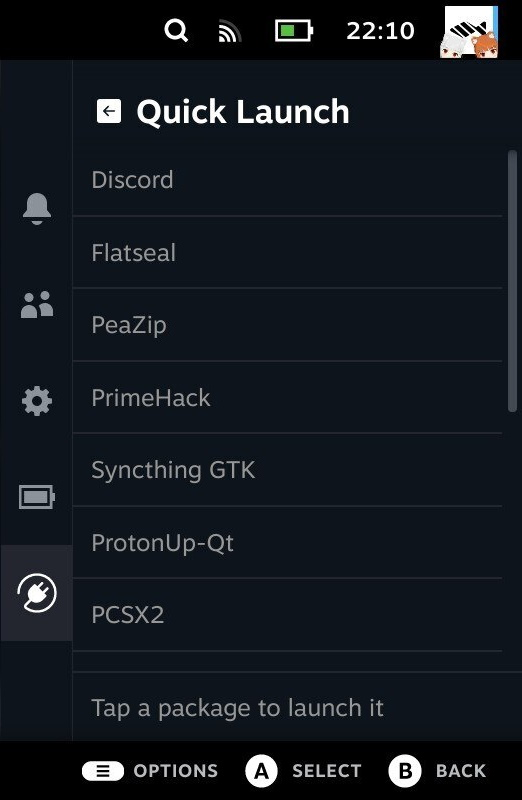
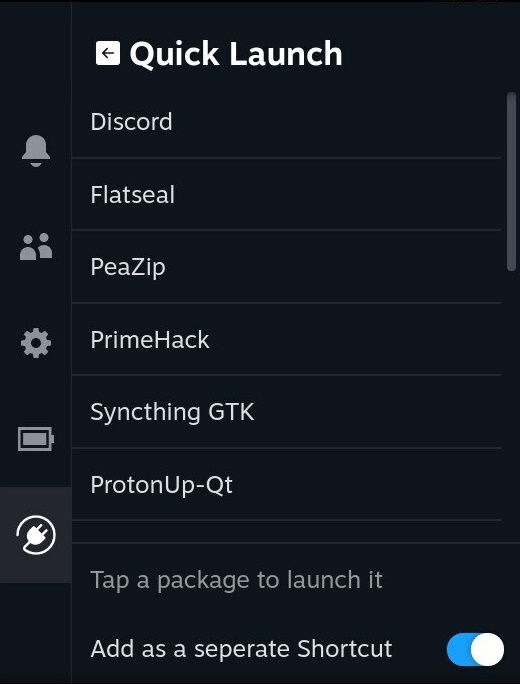
Add the ability to create new Shortcuts

diff --git a/main_view.html b/main_view.html
@@ -8,12 +8,13 @@
             body {
                 margin-left: 0;
                 margin-right: 0;
+                color: #dcdedf;
             }
             #flatpaklist {
               list-style-type: none;
               padding: 0;
               overflow-y: scroll;
-              height: 90%;
+              height: 78%;
               margin-bottom: 0;
             }
 
@@ -32,6 +33,10 @@
                 padding: 12px;
                 border-bottom: 1px solid #23262e;
             }
+
+            #status {
+                color: #969696;
+            }
         </style>
     </head>
     <body style="overflow-y: hidden;">
@@ -39,6 +44,15 @@
         <ul id="flatpaklist"></ul>
         <div id="settings">
             <div id="status"></div>
+            <div class="gamepaddialog_FieldLabelRow_H9WOq">
+                <div class="gamepaddialog_FieldLabel_3b0U-">
+                    Add as a seperate Shortcut
+                </div>
+                <div id="shortcutToggle" tabindex="0" class="gamepaddialog_Toggle_24G4g Focusable" onclick="handleShortcutToggle()">
+                    <div class="gamepaddialog_ToggleRail_2JtC3"></div>
+                    <div class="gamepaddialog_ToggleSwitch_3__OD"></div>
+                </div>
+            </div>
         </div>                                          
 
         <script>
@@ -47,6 +61,7 @@
             // - Check if Shortcut still exists
 
             const status = document.getElementById("status")
+            let createShortcut = false
 
             async function show_list() {
                 status.innerHTML = "Fetching Packages..."
@@ -59,11 +74,40 @@
                     e.innerHTML = flatpak.name;
                     
                     e.onclick = async function() {
-                        launch_flatpak(flatpak.package);
+                        if(createShortcut) {
+                            let id = await create_shortcut(flatpak.name);
+                            sc(`Apps.SetShortcutLaunchOptions(${id}, "run ${flatpak.package}")`);
+                            status.innerHTML = "Shortcut created."
+                            setTimeout(()=>status.innerHTML="Tap a package to launch it", 1000)
+                        } else {
+                            launch_flatpak(flatpak.package);
+                        }
+
                     }
                 });
 
                 status.innerHTML = "Tap a package to launch it"
+            }
+
+            function setToggleState(id, state) {
+                //Shamelessly stolen from https://github.com/SteamDeckHomebrew/ExtraSettingsPlugin/blob/main/main_view.html
+                const ENABLED_CLASS = "gamepaddialog_On_3ld7T";
+                let toggle = document.getElementById(id);
+
+                if (state && !toggle.classList.contains(ENABLED_CLASS)) {
+                    toggle.classList.add(ENABLED_CLASS);
+                }
+
+                if (!state && toggle.classList.contains(ENABLED_CLASS)) {
+                    toggle.classList.remove(ENABLED_CLASS);
+                }
+            }
+
+            function handleShortcutToggle() {
+                let toggle = document.getElementById("shortcutToggle");
+                let isActive = toggle.classList.contains("gamepaddialog_On_3ld7T");
+                createShortcut = !isActive;
+                setToggleState("shortcutToggle", !isActive);
             }
 
             async function launch_flatpak(package) {
@@ -86,17 +130,18 @@
             async function get_shortcut() {
                 let id = await call_plugin_method("get_id", {})
                 if(id == -1) {
-                    id = await create_shortcut()
+                    id = await create_shortcut("QuickLaunch");
+                    call_plugin_method("set_id", {id: id});
                 } else if(await gameid_from_appid(id) == -1) {
-                    id = await create_shortcut()
+                    id = await create_shortcut("QuickLaunch");
+                    call_plugin_method("set_id", {id: id});
                 }
 
                 return id
             }
 
-            async function create_shortcut() {
-                let id = (await sc('Apps.AddShortcut("QuickLaunch","/usr/bin/flatpak")')).result;
-                call_plugin_method("set_id", {id: id})
+            async function create_shortcut(name) {
+                let id = (await sc(`Apps.AddShortcut("${name}","/usr/bin/flatpak")`)).result;
                 return id
             }
 
@@ -107,7 +152,7 @@
             }
 
             async function gameid_from_appid(appid) {
-                //executint most of js in the tab avoids some errors i cannot explain myself
+                //executing most of js in the tab avoids some errors i cannot explain myself
                 let game = (await execute_in_tab("SP", true, `
                     async function get_gameid() {
                         let res = await appStore.GetAppOverviewByAppID(${appid})
